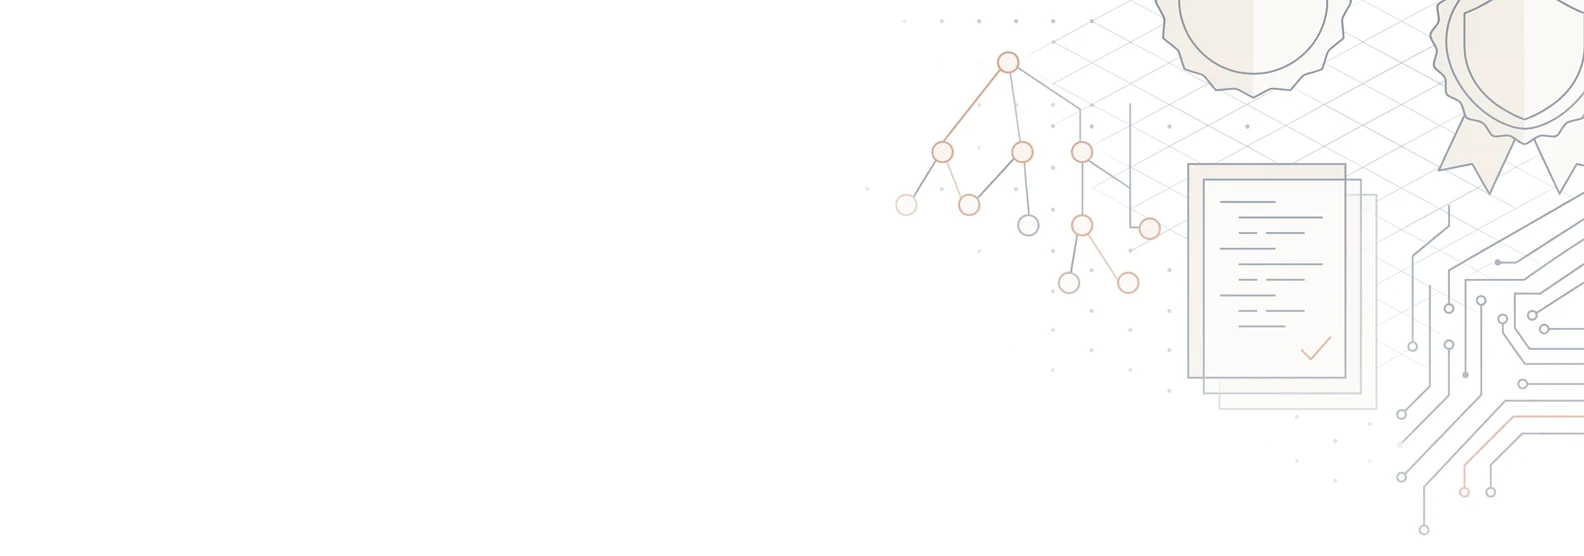
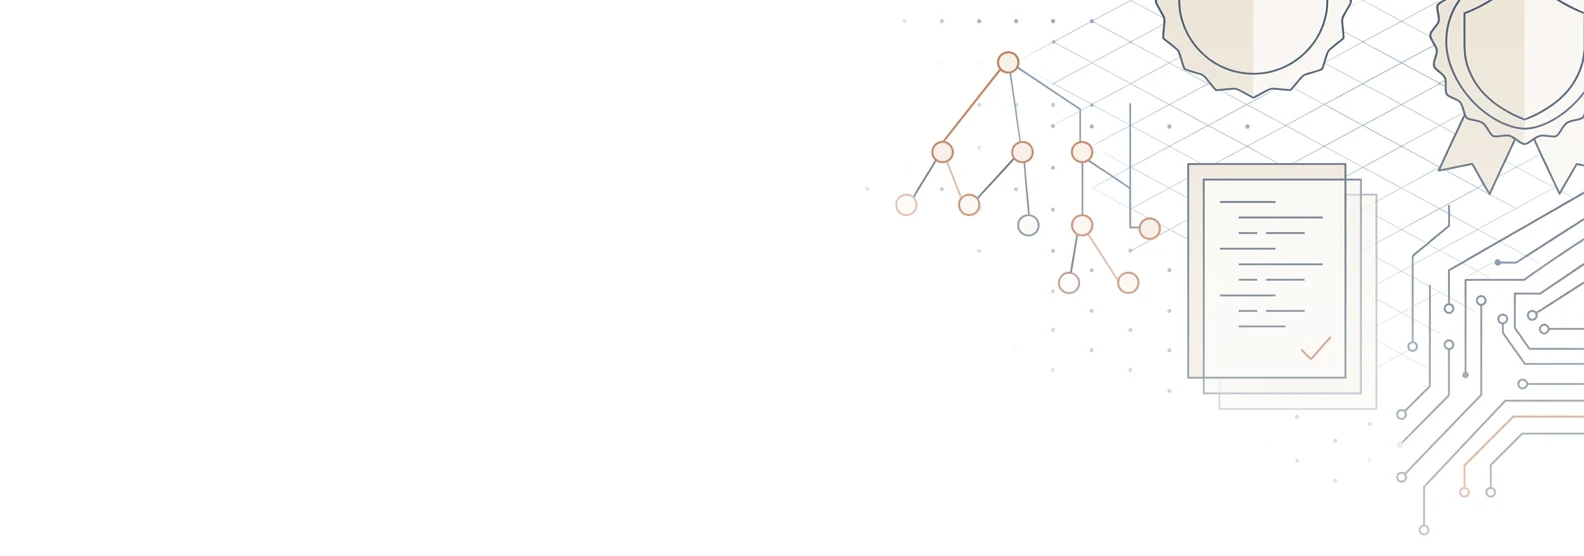
En-tête : image réduite (79 %, 60 % sur mobile), dégradé 75 % → 25 % [sans-envoi]
Le graphe ne chevauche plus « Compliance » et le document reste au-dessus du filet.

Claude-Session: https://claude.ai/code/session_01B3uGUBG5FhqXHNhf1tvb9C

diff --git a/tools/gen.py b/tools/gen.py
@@ -351,7 +351,7 @@ td[style*='font:14px/20px'] a.s{{font-size:12px}}
 .pod-r::-moz-range-thumb{{width:12px;height:12px;border-radius:50%;background:{ACC};border:2px solid #fff}}
 .pod-tm{{font:12px/16px {SANS};color:#6b7280;white-space:nowrap;font-variant-numeric:tabular-nums}}
 .pod-n{{margin:12px 0 0;font:italic 13px/19px {SERIF};color:#6b7280}}
-@media(max-width:660px){{.pod{{width:100%}}}}
+@media(max-width:660px){{.pod{{width:100%}}table.cv{{background-size:60% auto!important}}}}
 dialog.sy{{width:min(640px,calc(100vw - 32px));max-height:min(86vh,900px);padding:0;border:0;border-top:6px solid {ACC};background:#fff;color:#1f2937;box-shadow:0 18px 50px rgba(15,42,74,.28)}}
 dialog.sy::backdrop{{background:rgba(15,42,74,.42);backdrop-filter:blur(2px)}}
 .sy-w{{padding:26px 34px 28px;overflow:auto;max-height:calc(min(86vh,900px) - 6px);box-sizing:border-box}}
@@ -377,7 +377,7 @@ dialog.sy::backdrop{{background:rgba(15,42,74,.42);backdrop-filter:blur(2px)}}
     return f'''<!doctype html><html lang="fr"><head><meta charset="utf-8"><meta name="viewport" content="width=device-width,initial-scale=1"><meta name="color-scheme" content="light">{'<meta name="robots" content="noindex">' if web else ''}<title>{esc(title)}</title><style>{css}@media(max-width:660px){{.w{{padding:22px 18px 28px!important}}td.c{{display:block!important;width:100%!important;padding:0 0 12px!important;box-sizing:border-box}}td.c2{{display:block!important;width:100%!important;padding:0!important}}}}</style></head>
 <body style="margin:0;background:#ecebe6;">{'<div style="background:#0f2a4a;color:#fff;font:13px/20px '+SANS+';text-align:center;padding:8px 16px;">Édition de démonstration : contenu de l’édition de référence, avec des synthèses d’exemple.</div>' if web and META.get('demo') else ''}<span style="display:none;max-height:0;overflow:hidden;">La revue de la semaine : conformité logicielle des produits, export et sanctions, licences.</span>
 <table role="presentation" width="100%" cellpadding="0" cellspacing="0" style="background:#ecebe6;"><tr><td align="center" style="padding:24px 8px;">
-<table role="presentation" width="720" cellpadding="0" cellspacing="0" style="width:100%;max-width:720px;background:#fff;{('background-image:url('+EN_TETE+');background-repeat:no-repeat;background-position:0 6px;background-size:100% auto;') if (web and EN_TETE) else ''}">
+<table class="cv" role="presentation" width="720" cellpadding="0" cellspacing="0" style="width:100%;max-width:720px;background:#fff;{('background-image:url('+EN_TETE+');background-repeat:no-repeat;background-position:right 6px;background-size:79% auto;') if (web and EN_TETE) else ''}">
 <tr><td style="height:6px;background:{ACC};font-size:0;line-height:6px;">&nbsp;</td></tr>
 <tr><td class="w hd" style="padding:38px 52px 0;"><div style="font:600 12px/16px {SANS};letter-spacing:.16em;text-transform:uppercase;color:{ACC};">Revue de presse hebdomadaire</div><div style="font:700 46px/52px {SERIF};color:{NAVY};margin:8px 0 14px;letter-spacing:-.01em;"><i style="font-weight:400;color:{ACC};">Software</i> <span style="font:500 44px/52px {SANS};color:{NAVY};letter-spacing:-.025em;">Compliance</span></div><table role="presentation" width="100%" cellpadding="0" cellspacing="0" style="border-bottom:2px solid {NAVY};"><tr><td style="padding:0 0 14px;font:13px/20px {SANS};color:#6b7280;">N°&nbsp;{META['n']} &nbsp;·&nbsp; {META['date_long'].replace(' ','&nbsp;')} &nbsp;·&nbsp; <a href="{SITE if not web else ''}/archives/" style="color:#6b7280;">Archives</a> &nbsp;·&nbsp; <a href="{SITE if not web else ''}/dossiers/" style="color:#6b7280;">Dossiers</a></td><td align="right" valign="top" style="padding:0 0 14px 12px;font:13px/20px {SANS};color:#6b7280;white-space:nowrap;"><span style="background:rgba(255,255,255,.5);border-radius:3px;padding:1px 4px;margin-right:-4px;">Lecture ≈&nbsp;{mins}&nbsp;min</span></td></tr></table></td></tr>
 <tr><td class="w" style="padding:30px 52px 40px;">{bloc_podcast(web,DISO,ED_URL)}{out}

diff --git a/README.md b/README.md
@@ -136,6 +136,6 @@ Production : `python3 tools/podcast.py` (dernière édition) ; `--check` contrô
 
 ## 12. Mise en page : éléments fixes
 
-- **En-tête** : sous le titre, à gauche « N° · date · Archives · Dossiers », à droite « Lecture ≈ n min ». Image de fond facultative `tools/en-tete.webp` (ou .png, .jpg), version web seulement, étirée en pleine largeur depuis le haut de la page (elle peut déborder sous l'en-tête) ; prompt de génération dans `tools/en-tete-prompt.md`.
+- **En-tête** : sous le titre, à gauche « N° · date · Archives · Dossiers », à droite « Lecture ≈ n min ». Image de fond facultative `tools/en-tete.webp` (ou .png, .jpg), version web seulement, calée en haut à droite sur 79 % de la largeur (60 % sur mobile), réglée pour que le graphe ne touche pas le titre et que le document reste au-dessus du filet ; prompt de génération dans `tools/en-tete-prompt.md`.
 - **Pied de page** : « Ce document a été rédigé par une intelligence artificielle (<éditeur> <modèle> <version>). Des erreurs sont possibles. », valeur prise dans `meta.json` (`redaction`), à défaut « Anthropic Claude Opus 5.5 ».
 
